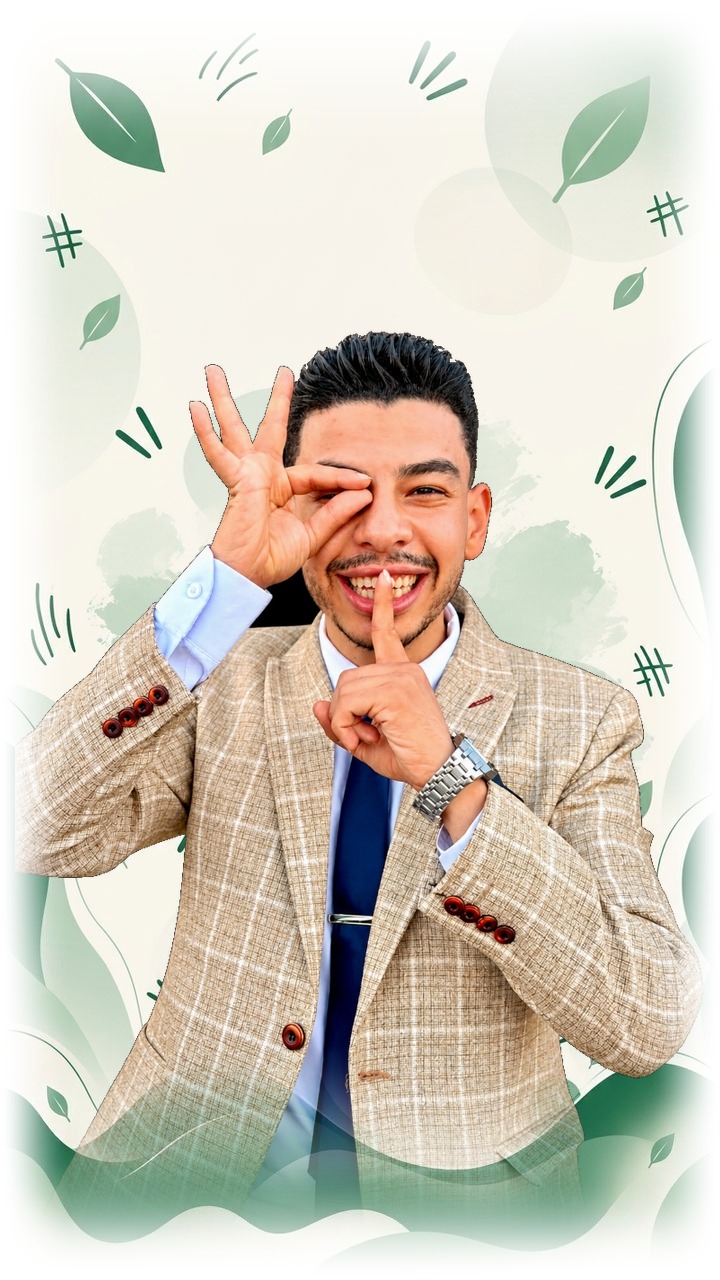
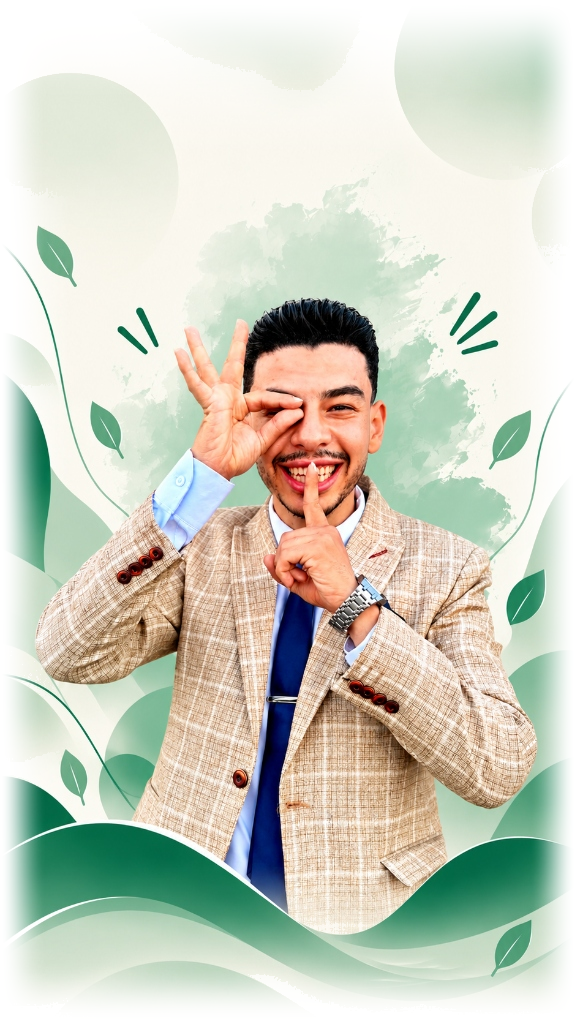
feat(hero): update mobile hero composition to match exact vertical reference image while keeping PC untouched

diff --git a/apps/web/src/components/home/HeroBanner.tsx b/apps/web/src/components/home/HeroBanner.tsx
@@ -4,7 +4,7 @@ import React from 'react';
 
 export default function HeroBanner() {
   return (
-    <section className="relative w-full overflow-hidden bg-[#f7f6ed] dark:bg-[#0b0f19] transition-colors duration-300 min-h-[70vh] sm:min-h-[75vh] lg:min-h-[88vh] flex items-center justify-center py-4 sm:py-10 lg:py-14">
+    <section className="relative w-full overflow-hidden bg-[#f7f6ed] dark:bg-[#0b0f19] transition-colors duration-300 min-h-[65vh] sm:min-h-[75vh] lg:min-h-[88vh] flex items-center justify-center py-4 sm:py-10 lg:py-14">
       
       {/* 1. Ambient Background Glow & Edge Blending Layers */}
       <div className="absolute inset-0 w-full h-full pointer-events-none select-none z-0">
@@ -19,16 +19,16 @@ export default function HeroBanner() {
       {/* 2. Responsive Hero Composition Container */}
       <div className="relative z-10 w-full max-w-7xl mx-auto px-2 sm:px-6 lg:px-8 flex flex-col items-center justify-center text-center">
         
-        {/* MOBILE VISUAL COMPOSITION (AI Outpainted 9:16 vertical background + Large teacher image) */}
+        {/* MOBILE VISUAL COMPOSITION (Matches exact mobile vertical reference image) */}
         <div className="flex sm:hidden items-center justify-center w-full mx-auto px-1 py-2">
           <img
-            src="/assets/hero/hero-visual-mobile.png"
+            src="/assets/hero/hero-visual-mobile-seamless.png"
             alt="Mr. Omar Makawy - Mobile Hero Visual Composition"
-            className="w-full max-w-[360px] xs:max-w-[420px] h-auto object-contain transition-all duration-300 pointer-events-none select-none filter drop-shadow-[0_8px_24px_rgba(17,105,78,0.08)]"
+            className="w-full max-w-[360px] xs:max-w-[420px] h-auto object-contain transition-all duration-300 pointer-events-none select-none filter drop-shadow-[0_8px_24px_rgba(17,105,78,0.06)]"
           />
         </div>
 
-        {/* DESKTOP / TABLET VISUAL COMPOSITION (PC design preserved unchanged) */}
+        {/* DESKTOP / TABLET VISUAL COMPOSITION (PC design 100% untouched) */}
         <div className="hidden sm:flex items-center justify-center w-full mx-auto">
           <img
             src="/assets/hero/hero-visual-seamless.png"
